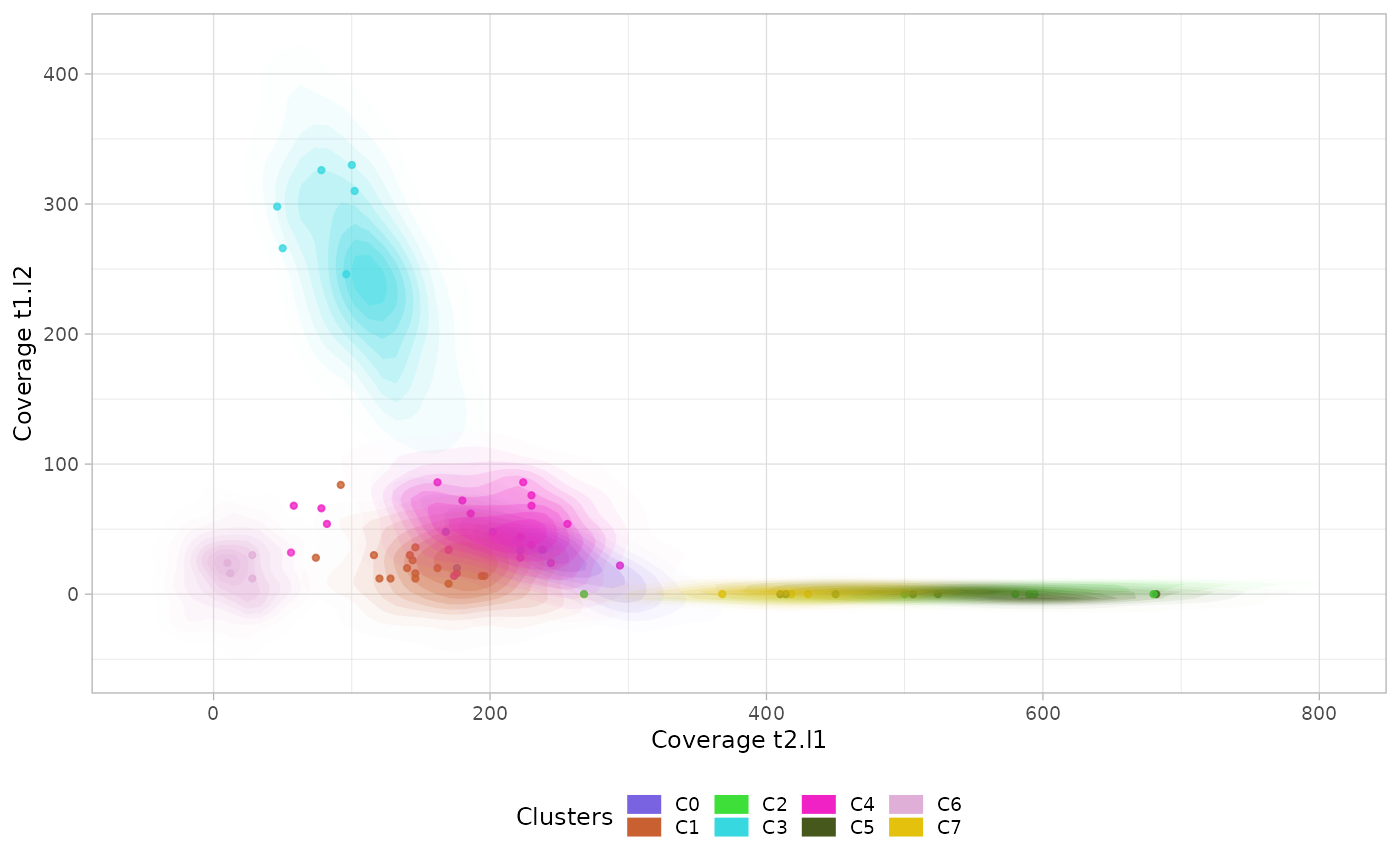
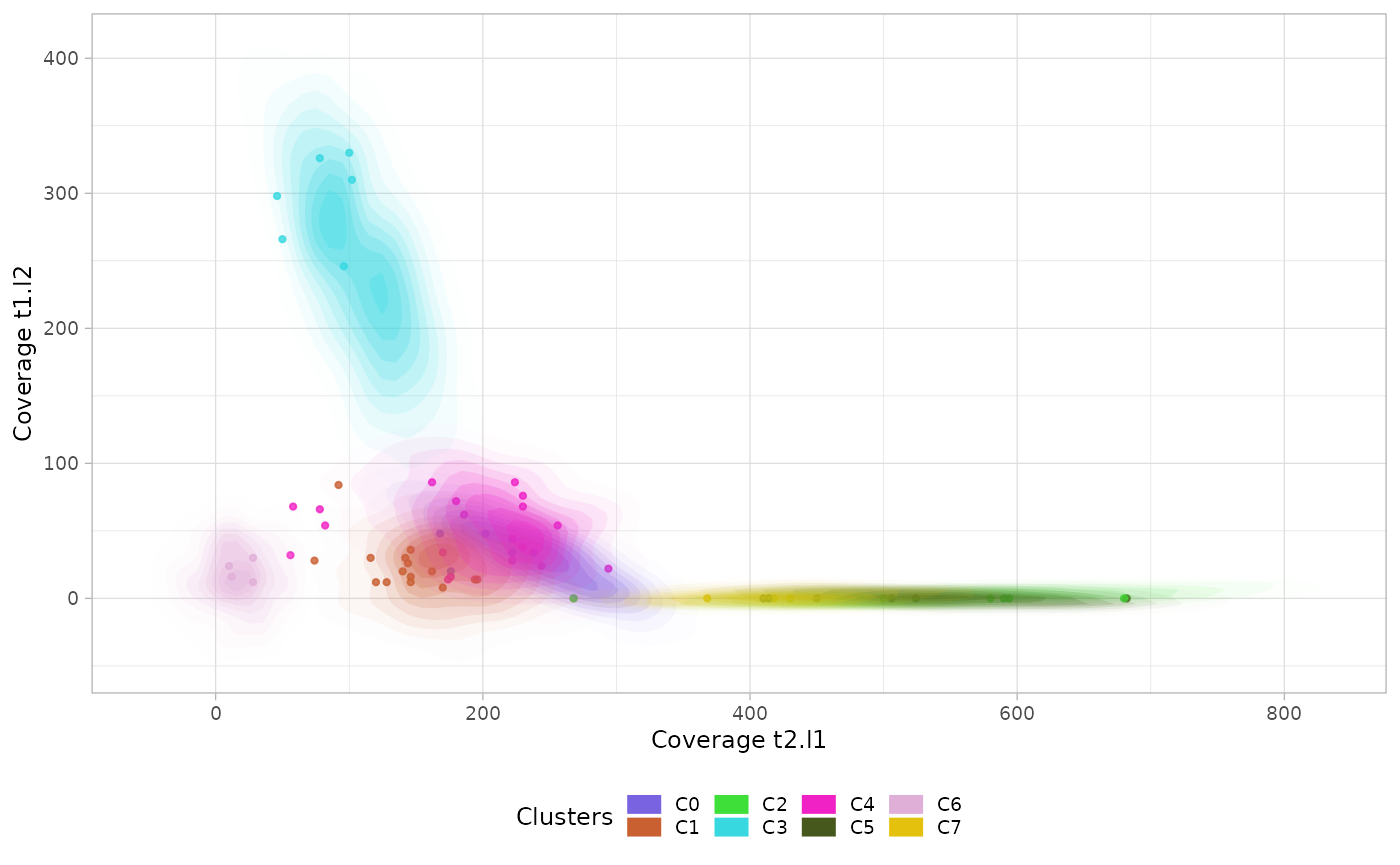
Built site for lineaGT: 0.1.0@46201f7

diff --git a/articles/Inference.html b/articles/Inference.html
@@ -111,6 +111,9 @@
 <div class="sourceCode" id="cb3"><pre class="downlit sourceCode r">
 <code class="sourceCode R"><span><span class="va">cov.example.filt</span> <span class="op">=</span> <span class="va">cov.df.example</span> <span class="op"><a href="https://magrittr.tidyverse.org/reference/pipe.html" class="external-link">%&gt;%</a></span></span>
 <span>  <span class="fu"><a href="../reference/filter_dataset.html">filter_dataset</a></span><span class="op">(</span>min_cov<span class="op">=</span><span class="fl">5</span>, min_frac<span class="op">=</span><span class="fl">0.05</span><span class="op">)</span></span>
+<span><span class="co">#&gt; <span style="color: #00BBBB;">ℹ</span> Filtering the input dataset with minimum coverage 5 and minimum clusters frac…</span></span>
+<span><span class="co">#&gt; <span style="color: #00BB00;">✔</span> Filtering the input dataset with minimum coverage 5 and minimum clusters frac…</span></span>
+<span><span class="co">#&gt; </span></span>
 <span></span>
 <span><span class="va">cov.example.filt</span></span>
 <span><span class="co">#&gt; <span style="color: #949494;"># A tibble: 264 × 4</span></span></span>
@@ -156,11 +159,11 @@
 <span id="cb4-24"><a href="#cb4-24" aria-hidden="true" tabindex="-1"></a><span class="co">#&gt;  [36mℹ [39m Starting clustering of clone C0 mutations</span></span>
 <span id="cb4-25"><a href="#cb4-25" aria-hidden="true" tabindex="-1"></a><span class="co">#&gt; ──  [30m [43m[ VIBER ] My VIBER model [49m [39m n = 3 (w = 4 dimensions). Fit with  [32mk = 3 [39m clusters. ─</span></span>
 <span id="cb4-26"><a href="#cb4-26" aria-hidden="true" tabindex="-1"></a><span class="co">#&gt;  [36mℹ [39m Starting clustering of clone C0 mutations</span></span>
-<span id="cb4-27"><a href="#cb4-27" aria-hidden="true" tabindex="-1"></a>• Clusters<span class="sc">:</span> π <span class="ot">=</span> <span class="dv">67</span><span class="sc">% [ [33mC2 [39m] and 33%</span> [ [33mC3 [39m], with π <span class="sc">&gt;</span> <span class="fl">0.</span></span>
+<span id="cb4-27"><a href="#cb4-27" aria-hidden="true" tabindex="-1"></a>• Clusters<span class="sc">:</span> π <span class="ot">=</span> <span class="dv">67</span><span class="sc">% [ [33mC1 [39m] and 33%</span> [ [33mC2 [39m], with π <span class="sc">&gt;</span> <span class="fl">0.</span></span>
 <span id="cb4-28"><a href="#cb4-28" aria-hidden="true" tabindex="-1"></a><span class="co">#&gt;  [36mℹ [39m Starting clustering of clone C0 mutations</span></span>
-<span id="cb4-29"><a href="#cb4-29" aria-hidden="true" tabindex="-1"></a>• Binomials<span class="sc">:</span> θ <span class="ot">=</span> <span class="er">&lt;</span><span class="fl">0.09</span>, <span class="fl">0.19</span>, <span class="fl">0.01</span>, <span class="dv">0</span><span class="sc">&gt;</span> [ [33mC2 [39m] and <span class="sc">&lt;</span><span class="fl">0.01</span>, <span class="fl">0.36</span>, <span class="fl">0.03</span>, <span class="fl">0.4</span><span class="sc">&gt;</span> [ [33mC3 [39m].</span>
+<span id="cb4-29"><a href="#cb4-29" aria-hidden="true" tabindex="-1"></a>• Binomials<span class="sc">:</span> θ <span class="ot">=</span> <span class="er">&lt;</span><span class="fl">0.09</span>, <span class="fl">0.19</span>, <span class="fl">0.01</span>, <span class="dv">0</span><span class="sc">&gt;</span> [ [33mC1 [39m] and <span class="sc">&lt;</span><span class="fl">0.01</span>, <span class="fl">0.36</span>, <span class="fl">0.03</span>, <span class="fl">0.4</span><span class="sc">&gt;</span> [ [33mC2 [39m].</span>
 <span id="cb4-30"><a href="#cb4-30" aria-hidden="true" tabindex="-1"></a><span class="co">#&gt;  [36mℹ [39m Starting clustering of clone C0 mutations</span></span>
-<span id="cb4-31"><a href="#cb4-31" aria-hidden="true" tabindex="-1"></a> [36mℹ [39m <span class="fu">Score</span>(s)<span class="sc">:</span> ELBO <span class="ot">=</span> <span class="sc">-</span><span class="dv">1461</span>.<span class="fl">823.</span> Fit  [32mconverged [39m <span class="cf">in</span> <span class="dv">6</span> steps, ε <span class="ot">=</span> 1e<span class="fl">-10.</span></span>
+<span id="cb4-31"><a href="#cb4-31" aria-hidden="true" tabindex="-1"></a> [36mℹ [39m <span class="fu">Score</span>(s)<span class="sc">:</span> ELBO <span class="ot">=</span> <span class="sc">-</span><span class="dv">1461</span>.<span class="fl">826.</span> Fit  [32mconverged [39m <span class="cf">in</span> <span class="dv">6</span> steps, ε <span class="ot">=</span> 1e<span class="fl">-10.</span></span>
 <span id="cb4-32"><a href="#cb4-32" aria-hidden="true" tabindex="-1"></a><span class="co">#&gt;  [36mℹ [39m Starting clustering of clone C0 mutations</span></span>
 <span id="cb4-33"><a href="#cb4-33" aria-hidden="true" tabindex="-1"></a> [32m✔ [39m Reduced to k <span class="ot">=</span> <span class="dv">2</span> (from <span class="dv">3</span>) selecting VIBER <span class="fu">cluster</span>(s) with π <span class="sc">&gt;</span> <span class="fl">0.166666666666667</span>, and Binomial p <span class="sc">&gt;</span> <span class="dv">0</span> <span class="cf">in</span> w <span class="sc">&gt;</span> <span class="dv">0</span> <span class="fu">dimension</span>(s).</span>
 <span id="cb4-34"><a href="#cb4-34" aria-hidden="true" tabindex="-1"></a><span class="co">#&gt;  [36mℹ [39m Starting clustering of clone C0 mutations</span></span>
@@ -173,8 +176,8 @@
 <span id="cb4-41"><a href="#cb4-41" aria-hidden="true" tabindex="-1"></a><span class="co">#&gt;  [38;5;246m# A tibble: 3 × 8 [39m</span></span>
 <span id="cb4-42"><a href="#cb4-42" aria-hidden="true" tabindex="-1"></a><span class="co">#&gt;   cluster   t1.l1 t2.l1  t1.l2 t2.l2 nMuts is.clonal is.driver</span></span>
 <span id="cb4-43"><a href="#cb4-43" aria-hidden="true" tabindex="-1"></a><span class="co">#&gt;    [3m [38;5;246m&lt;chr&gt; [39m [23m      [3m [38;5;246m&lt;dbl&gt; [39m [23m  [3m [38;5;246m&lt;dbl&gt; [39m [23m   [3m [38;5;246m&lt;dbl&gt; [39m [23m  [3m [38;5;246m&lt;dbl&gt; [39m [23m  [3m [38;5;246m&lt;dbl&gt; [39m [23m  [3m [38;5;246m&lt;lgl&gt; [39m [23m      [3m [38;5;246m&lt;lgl&gt; [39m [23m    </span></span>
-<span id="cb4-44"><a href="#cb4-44" aria-hidden="true" tabindex="-1"></a><span class="co">#&gt;  [38;5;250m1 [39m S1      0.085 [4m6 [24m  0.190 0      0         2 FALSE     FALSE    </span></span>
-<span id="cb4-45"><a href="#cb4-45" aria-hidden="true" tabindex="-1"></a><span class="co">#&gt;  [38;5;250m2 [39m S2      0.006 [4m8 [24m [4m2 [24m 0.362 0.028 [4m6 [24m 0.396     1 FALSE     TRUE     </span></span>
+<span id="cb4-44"><a href="#cb4-44" aria-hidden="true" tabindex="-1"></a><span class="co">#&gt;  [38;5;250m1 [39m S1      0.085 [4m6 [24m  0.190 0      0         2 FALSE     TRUE     </span></span>
+<span id="cb4-45"><a href="#cb4-45" aria-hidden="true" tabindex="-1"></a><span class="co">#&gt;  [38;5;250m2 [39m S2      0.006 [4m8 [24m [4m1 [24m 0.362 0.028 [4m6 [24m 0.396     1 FALSE     FALSE    </span></span>
 <span id="cb4-46"><a href="#cb4-46" aria-hidden="true" tabindex="-1"></a><span class="co">#&gt;  [38;5;250m3 [39m C0      1       1     1      1         1 TRUE      FALSE</span></span>
 <span id="cb4-47"><a href="#cb4-47" aria-hidden="true" tabindex="-1"></a><span class="co">#&gt;  [32m✔ [39m Trees per region  [32m [32m1, 2, 1, 1 [32m [39m</span></span>
 <span id="cb4-48"><a href="#cb4-48" aria-hidden="true" tabindex="-1"></a><span class="co">#&gt;  [36mℹ [39m Starting phylogeny inference of clone C0</span></span>
@@ -199,13 +202,13 @@
 <span id="cb4-67"><a href="#cb4-67" aria-hidden="true" tabindex="-1"></a><span class="co">#&gt;  [36mℹ [39m Starting clustering of clone C1 mutations</span></span>
 <span id="cb4-68"><a href="#cb4-68" aria-hidden="true" tabindex="-1"></a><span class="co">#&gt; ──  [30m [43m[ VIBER ] My VIBER model [49m [39m n = 8 (w = 4 dimensions). Fit with  [32mk = 8 [39m clusters. ─</span></span>
 <span id="cb4-69"><a href="#cb4-69" aria-hidden="true" tabindex="-1"></a><span class="co">#&gt;  [36mℹ [39m Starting clustering of clone C1 mutations</span></span>
-<span id="cb4-70"><a href="#cb4-70" aria-hidden="true" tabindex="-1"></a>• Clusters<span class="sc">:</span> π <span class="ot">=</span> <span class="dv">25</span><span class="sc">% [ [33mC2 [39m], 25%</span> [ [33mC5 [39m], <span class="dv">25</span><span class="sc">% [ [33mC6 [39m], 13%</span> [ [33mC4 [39m], and <span class="dv">13</span>% [ [33mC8 [39m], with π <span class="sc">&gt;</span></span>
+<span id="cb4-70"><a href="#cb4-70" aria-hidden="true" tabindex="-1"></a>• Clusters<span class="sc">:</span> π <span class="ot">=</span> <span class="dv">25</span><span class="sc">% [ [33mC1 [39m], 25%</span> [ [33mC2 [39m], <span class="dv">25</span><span class="sc">% [ [33mC6 [39m], 13%</span> [ [33mC3 [39m], and <span class="dv">13</span>% [ [33mC8 [39m], with π <span class="sc">&gt;</span></span>
 <span id="cb4-71"><a href="#cb4-71" aria-hidden="true" tabindex="-1"></a><span class="co">#&gt; 0.</span></span>
 <span id="cb4-72"><a href="#cb4-72" aria-hidden="true" tabindex="-1"></a><span class="co">#&gt;  [36mℹ [39m Starting clustering of clone C1 mutations</span></span>
-<span id="cb4-73"><a href="#cb4-73" aria-hidden="true" tabindex="-1"></a>• Binomials<span class="sc">:</span> θ <span class="ot">=</span> <span class="er">&lt;</span><span class="dv">0</span>, <span class="fl">0.08</span>, <span class="fl">0.01</span>, <span class="fl">0.15</span><span class="sc">&gt;</span> [ [33mC2 [39m], <span class="sc">&lt;</span><span class="fl">0.18</span>, <span class="dv">0</span>, <span class="fl">0.01</span>, <span class="dv">0</span><span class="sc">&gt;</span> [ [33mC5 [39m], <span class="sc">&lt;</span><span class="dv">0</span>, <span class="fl">0.14</span>,</span>
-<span id="cb4-74"><a href="#cb4-74" aria-hidden="true" tabindex="-1"></a><span class="co">#&gt; 0.01, 0&gt; [ [33mC6 [39m], &lt;0.43, 0.01, 0.02, 0.32&gt; [ [33mC4 [39m], and &lt;0.2, 0.01, 0.02, 0.23&gt; [ [33mC8 [39m].</span></span>
+<span id="cb4-73"><a href="#cb4-73" aria-hidden="true" tabindex="-1"></a>• Binomials<span class="sc">:</span> θ <span class="ot">=</span> <span class="er">&lt;</span><span class="dv">0</span>, <span class="fl">0.08</span>, <span class="fl">0.01</span>, <span class="fl">0.15</span><span class="sc">&gt;</span> [ [33mC1 [39m], <span class="sc">&lt;</span><span class="fl">0.18</span>, <span class="dv">0</span>, <span class="fl">0.01</span>, <span class="dv">0</span><span class="sc">&gt;</span> [ [33mC2 [39m], <span class="sc">&lt;</span><span class="dv">0</span>, <span class="fl">0.14</span>,</span>
+<span id="cb4-74"><a href="#cb4-74" aria-hidden="true" tabindex="-1"></a><span class="co">#&gt; 0.01, 0&gt; [ [33mC6 [39m], &lt;0.2, 0.01, 0.02, 0.23&gt; [ [33mC3 [39m], and &lt;0.43, 0.01, 0.02, 0.32&gt; [ [33mC8 [39m].</span></span>
 <span id="cb4-75"><a href="#cb4-75" aria-hidden="true" tabindex="-1"></a><span class="co">#&gt;  [36mℹ [39m Starting clustering of clone C1 mutations</span></span>
-<span id="cb4-76"><a href="#cb4-76" aria-hidden="true" tabindex="-1"></a> [36mℹ [39m <span class="fu">Score</span>(s)<span class="sc">:</span> ELBO <span class="ot">=</span> <span class="sc">-</span><span class="dv">4571</span>.<span class="fl">189.</span> Fit  [32mconverged [39m <span class="cf">in</span> <span class="dv">6</span> steps, ε <span class="ot">=</span> 1e<span class="fl">-10.</span></span>
+<span id="cb4-76"><a href="#cb4-76" aria-hidden="true" tabindex="-1"></a> [36mℹ [39m <span class="fu">Score</span>(s)<span class="sc">:</span> ELBO <span class="ot">=</span> <span class="sc">-</span><span class="dv">4571</span>.<span class="fl">264.</span> Fit  [32mconverged [39m <span class="cf">in</span> <span class="dv">9</span> steps, ε <span class="ot">=</span> 1e<span class="fl">-10.</span></span>
 <span id="cb4-77"><a href="#cb4-77" aria-hidden="true" tabindex="-1"></a><span class="co">#&gt;  [36mℹ [39m Starting clustering of clone C1 mutations</span></span>
 <span id="cb4-78"><a href="#cb4-78" aria-hidden="true" tabindex="-1"></a> [32m✔ [39m Reduced to k <span class="ot">=</span> <span class="dv">5</span> (from <span class="dv">8</span>) selecting VIBER <span class="fu">cluster</span>(s) with π <span class="sc">&gt;</span> <span class="fl">0.0625</span>, and Binomial p <span class="sc">&gt;</span> <span class="dv">0</span> <span class="cf">in</span> w <span class="sc">&gt;</span> <span class="dv">0</span> <span class="fu">dimension</span>(s).</span>
 <span id="cb4-79"><a href="#cb4-79" aria-hidden="true" tabindex="-1"></a><span class="co">#&gt;  [36mℹ [39m Starting clustering of clone C1 mutations</span></span>
@@ -218,11 +221,11 @@
 <span id="cb4-86"><a href="#cb4-86" aria-hidden="true" tabindex="-1"></a><span class="co">#&gt;  [38;5;246m# A tibble: 6 × 8 [39m</span></span>
 <span id="cb4-87"><a href="#cb4-87" aria-hidden="true" tabindex="-1"></a><span class="co">#&gt;   cluster   t1.l1   t2.l1  t1.l2 t2.l2 nMuts is.clonal is.driver</span></span>
 <span id="cb4-88"><a href="#cb4-88" aria-hidden="true" tabindex="-1"></a><span class="co">#&gt;    [3m [38;5;246m&lt;chr&gt; [39m [23m      [3m [38;5;246m&lt;dbl&gt; [39m [23m    [3m [38;5;246m&lt;dbl&gt; [39m [23m   [3m [38;5;246m&lt;dbl&gt; [39m [23m  [3m [38;5;246m&lt;dbl&gt; [39m [23m  [3m [38;5;246m&lt;dbl&gt; [39m [23m  [3m [38;5;246m&lt;lgl&gt; [39m [23m      [3m [38;5;246m&lt;lgl&gt; [39m [23m    </span></span>
-<span id="cb4-89"><a href="#cb4-89" aria-hidden="true" tabindex="-1"></a><span class="co">#&gt;  [38;5;250m1 [39m S1      0.001 [4m6 [24m [4m2 [24m 0.075 [4m6 [24m  0.012 [4m2 [24m 0.147     2 FALSE     FALSE    </span></span>
-<span id="cb4-90"><a href="#cb4-90" aria-hidden="true" tabindex="-1"></a><span class="co">#&gt;  [38;5;250m2 [39m S2      0.430   0.005 [4m5 [24m [4m8 [24m 0.017 [4m0 [24m 0.318     1 FALSE     FALSE    </span></span>
-<span id="cb4-91"><a href="#cb4-91" aria-hidden="true" tabindex="-1"></a><span class="co">#&gt;  [38;5;250m3 [39m S3      0.184   0.002 [4m8 [24m [4m1 [24m 0      0         2 FALSE     FALSE    </span></span>
+<span id="cb4-89"><a href="#cb4-89" aria-hidden="true" tabindex="-1"></a><span class="co">#&gt;  [38;5;250m1 [39m S1      0.001 [4m6 [24m [4m2 [24m 0.075 [4m6 [24m  0.012 [4m3 [24m 0.147     2 FALSE     FALSE    </span></span>
+<span id="cb4-90"><a href="#cb4-90" aria-hidden="true" tabindex="-1"></a><span class="co">#&gt;  [38;5;250m2 [39m S2      0.184   0.002 [4m8 [24m [4m0 [24m 0      0         2 FALSE     FALSE    </span></span>
+<span id="cb4-91"><a href="#cb4-91" aria-hidden="true" tabindex="-1"></a><span class="co">#&gt;  [38;5;250m3 [39m S3      0.198   0.005 [4m6 [24m [4m0 [24m 0.017 [4m0 [24m 0.225     1 FALSE     TRUE     </span></span>
 <span id="cb4-92"><a href="#cb4-92" aria-hidden="true" tabindex="-1"></a><span class="co">#&gt;  [38;5;250m4 [39m S4      0.001 [4m6 [24m [4m2 [24m 0.142   0      0         2 FALSE     FALSE    </span></span>
-<span id="cb4-93"><a href="#cb4-93" aria-hidden="true" tabindex="-1"></a><span class="co">#&gt;  [38;5;250m5 [39m S5      0.198   0.005 [4m5 [24m [4m9 [24m 0.017 [4m0 [24m 0.225     1 FALSE     TRUE     </span></span>
+<span id="cb4-93"><a href="#cb4-93" aria-hidden="true" tabindex="-1"></a><span class="co">#&gt;  [38;5;250m5 [39m S5      0.430   0.005 [4m5 [24m [4m8 [24m 0.017 [4m1 [24m 0.318     1 FALSE     FALSE    </span></span>
 <span id="cb4-94"><a href="#cb4-94" aria-hidden="true" tabindex="-1"></a><span class="co">#&gt;  [38;5;250m6 [39m C1      1       1       1      1         1 TRUE      FALSE</span></span>
 <span id="cb4-95"><a href="#cb4-95" aria-hidden="true" tabindex="-1"></a><span class="co">#&gt;  [32m✔ [39m Trees per region  [32m [32m6, 2, 5, 5 [32m [39m</span></span>
 <span id="cb4-96"><a href="#cb4-96" aria-hidden="true" tabindex="-1"></a><span class="co">#&gt;  [36mℹ [39m Starting phylogeny inference of clone C1</span></span>
@@ -243,16 +246,16 @@
 <span id="cb4-111"><a href="#cb4-111" aria-hidden="true" tabindex="-1"></a><span class="co">#&gt;  [36mℹ [39m Starting clustering of clone C4 mutations</span></span>
 <span id="cb4-112"><a href="#cb4-112" aria-hidden="true" tabindex="-1"></a> [36mℹ [39m <span class="fu">Beta</span> (a_0, b_0) <span class="ot">=</span> (<span class="dv">1</span>, <span class="dv">1</span>); q_i <span class="ot">=</span> prior. Optimise<span class="sc">:</span> ε <span class="ot">=</span> <span class="fl">1e-10</span> or <span class="dv">5000</span> steps, r <span class="ot">=</span> <span class="dv">10</span> starts.</span>
 <span id="cb4-113"><a href="#cb4-113" aria-hidden="true" tabindex="-1"></a><span class="co">#&gt;  [36mℹ [39m Starting clustering of clone C4 mutations</span></span>
-<span id="cb4-114"><a href="#cb4-114" aria-hidden="true" tabindex="-1"></a><span class="co">#&gt;  [32m✔ [39m  [1mVIBER fit [22m completed in 0.05 mins (status:  [32mconverged [39m)</span></span>
+<span id="cb4-114"><a href="#cb4-114" aria-hidden="true" tabindex="-1"></a><span class="co">#&gt;  [32m✔ [39m  [1mVIBER fit [22m completed in 0.06 mins (status:  [32mconverged [39m)</span></span>
 <span id="cb4-115"><a href="#cb4-115" aria-hidden="true" tabindex="-1"></a><span class="co">#&gt;  [36mℹ [39m Starting clustering of clone C4 mutations</span></span>
 <span id="cb4-116"><a href="#cb4-116" aria-hidden="true" tabindex="-1"></a><span class="co">#&gt; ──  [30m [43m[ VIBER ] My VIBER model [49m [39m n = 6 (w = 4 dimensions). Fit with  [32mk = 6 [39m clusters. ─</span></span>
 <span id="cb4-117"><a href="#cb4-117" aria-hidden="true" tabindex="-1"></a><span class="co">#&gt;  [36mℹ [39m Starting clustering of clone C4 mutations</span></span>
-<span id="cb4-118"><a href="#cb4-118" aria-hidden="true" tabindex="-1"></a>• Clusters<span class="sc">:</span> π <span class="ot">=</span> <span class="dv">50</span><span class="sc">% [ [33mC6 [39m], 17%</span> [ [33mC1 [39m], <span class="dv">17</span><span class="sc">% [ [33mC3 [39m], and 17%</span> [ [33mC4 [39m], with π <span class="sc">&gt;</span> <span class="fl">0.</span></span>
+<span id="cb4-118"><a href="#cb4-118" aria-hidden="true" tabindex="-1"></a>• Clusters<span class="sc">:</span> π <span class="ot">=</span> <span class="dv">50</span><span class="sc">% [ [33mC5 [39m], 17%</span> [ [33mC1 [39m], <span class="dv">17</span><span class="sc">% [ [33mC3 [39m], and 17%</span> [ [33mC6 [39m], with π <span class="sc">&gt;</span> <span class="fl">0.</span></span>
 <span id="cb4-119"><a href="#cb4-119" aria-hidden="true" tabindex="-1"></a><span class="co">#&gt;  [36mℹ [39m Starting clustering of clone C4 mutations</span></span>
-<span id="cb4-120"><a href="#cb4-120" aria-hidden="true" tabindex="-1"></a>• Binomials<span class="sc">:</span> θ <span class="ot">=</span> <span class="er">&lt;</span><span class="fl">0.15</span>, <span class="dv">0</span>, <span class="fl">0.01</span>, <span class="dv">0</span><span class="sc">&gt;</span> [ [33mC6 [39m], <span class="sc">&lt;</span><span class="fl">0.19</span>, <span class="fl">0.22</span>, <span class="fl">0.3</span>, <span class="fl">0.2</span><span class="sc">&gt;</span> [ [33mC1 [39m], <span class="sc">&lt;</span><span class="dv">0</span>, <span class="dv">0</span>,</span>
-<span id="cb4-121"><a href="#cb4-121" aria-hidden="true" tabindex="-1"></a><span class="co">#&gt; 0.02, 0.29&gt; [ [33mC3 [39m], and &lt;0.36, 0, 0.02, 0.28&gt; [ [33mC4 [39m].</span></span>
+<span id="cb4-120"><a href="#cb4-120" aria-hidden="true" tabindex="-1"></a>• Binomials<span class="sc">:</span> θ <span class="ot">=</span> <span class="er">&lt;</span><span class="fl">0.15</span>, <span class="dv">0</span>, <span class="fl">0.01</span>, <span class="dv">0</span><span class="sc">&gt;</span> [ [33mC5 [39m], <span class="sc">&lt;</span><span class="dv">0</span>, <span class="dv">0</span>, <span class="fl">0.02</span>, <span class="fl">0.29</span><span class="sc">&gt;</span> [ [33mC1 [39m], <span class="sc">&lt;</span><span class="fl">0.36</span>, <span class="dv">0</span>,</span>
+<span id="cb4-121"><a href="#cb4-121" aria-hidden="true" tabindex="-1"></a><span class="co">#&gt; 0.02, 0.28&gt; [ [33mC3 [39m], and &lt;0.19, 0.22, 0.3, 0.2&gt; [ [33mC6 [39m].</span></span>
 <span id="cb4-122"><a href="#cb4-122" aria-hidden="true" tabindex="-1"></a><span class="co">#&gt;  [36mℹ [39m Starting clustering of clone C4 mutations</span></span>
-<span id="cb4-123"><a href="#cb4-123" aria-hidden="true" tabindex="-1"></a> [36mℹ [39m <span class="fu">Score</span>(s)<span class="sc">:</span> ELBO <span class="ot">=</span> <span class="sc">-</span><span class="dv">3594</span>.<span class="fl">629.</span> Fit  [32mconverged [39m <span class="cf">in</span> <span class="dv">6</span> steps, ε <span class="ot">=</span> 1e<span class="fl">-10.</span></span>
+<span id="cb4-123"><a href="#cb4-123" aria-hidden="true" tabindex="-1"></a> [36mℹ [39m <span class="fu">Score</span>(s)<span class="sc">:</span> ELBO <span class="ot">=</span> <span class="sc">-</span><span class="dv">3594</span>.<span class="fl">607.</span> Fit  [32mconverged [39m <span class="cf">in</span> <span class="dv">7</span> steps, ε <span class="ot">=</span> 1e<span class="fl">-10.</span></span>
 <span id="cb4-124"><a href="#cb4-124" aria-hidden="true" tabindex="-1"></a><span class="co">#&gt;  [36mℹ [39m Starting clustering of clone C4 mutations</span></span>
 <span id="cb4-125"><a href="#cb4-125" aria-hidden="true" tabindex="-1"></a> [32m✔ [39m Reduced to k <span class="ot">=</span> <span class="dv">4</span> (from <span class="dv">6</span>) selecting VIBER <span class="fu">cluster</span>(s) with π <span class="sc">&gt;</span> <span class="fl">0.0833333333333333</span>, and Binomial p <span class="sc">&gt;</span> <span class="dv">0</span> <span class="cf">in</span> w <span class="sc">&gt;</span> <span class="dv">0</span> <span class="fu">dimension</span>(s).</span>
 <span id="cb4-126"><a href="#cb4-126" aria-hidden="true" tabindex="-1"></a><span class="co">#&gt;  [36mℹ [39m Starting clustering of clone C4 mutations</span></span>
@@ -265,10 +268,10 @@
 <span id="cb4-133"><a href="#cb4-133" aria-hidden="true" tabindex="-1"></a><span class="co">#&gt;  [38;5;246m# A tibble: 5 × 8 [39m</span></span>
 <span id="cb4-134"><a href="#cb4-134" aria-hidden="true" tabindex="-1"></a><span class="co">#&gt;   cluster t1.l1   t2.l1  t1.l2 t2.l2 nMuts is.clonal is.driver</span></span>
 <span id="cb4-135"><a href="#cb4-135" aria-hidden="true" tabindex="-1"></a><span class="co">#&gt;    [3m [38;5;246m&lt;chr&gt; [39m [23m    [3m [38;5;246m&lt;dbl&gt; [39m [23m    [3m [38;5;246m&lt;dbl&gt; [39m [23m   [3m [38;5;246m&lt;dbl&gt; [39m [23m  [3m [38;5;246m&lt;dbl&gt; [39m [23m  [3m [38;5;246m&lt;dbl&gt; [39m [23m  [3m [38;5;246m&lt;lgl&gt; [39m [23m      [3m [38;5;246m&lt;lgl&gt; [39m [23m    </span></span>
-<span id="cb4-136"><a href="#cb4-136" aria-hidden="true" tabindex="-1"></a><span class="co">#&gt;  [38;5;250m1 [39m S1      0.192 0.222   0.296  0.198     1 FALSE     TRUE     </span></span>
-<span id="cb4-137"><a href="#cb4-137" aria-hidden="true" tabindex="-1"></a><span class="co">#&gt;  [38;5;250m2 [39m S2      0     0       0.018 [4m6 [24m 0.292     1 FALSE     FALSE    </span></span>
-<span id="cb4-138"><a href="#cb4-138" aria-hidden="true" tabindex="-1"></a><span class="co">#&gt;  [38;5;250m3 [39m S3      0.358 0.004 [4m7 [24m [4m3 [24m 0.017 [4m0 [24m 0.275     1 FALSE     FALSE    </span></span>
-<span id="cb4-139"><a href="#cb4-139" aria-hidden="true" tabindex="-1"></a><span class="co">#&gt;  [38;5;250m4 [39m S4      0.146 0.001 [4m5 [24m [4m8 [24m 0      0         3 FALSE     FALSE    </span></span>
+<span id="cb4-136"><a href="#cb4-136" aria-hidden="true" tabindex="-1"></a><span class="co">#&gt;  [38;5;250m1 [39m S1      0     0       0.018 [4m6 [24m 0.292     1 FALSE     FALSE    </span></span>
+<span id="cb4-137"><a href="#cb4-137" aria-hidden="true" tabindex="-1"></a><span class="co">#&gt;  [38;5;250m2 [39m S2      0.358 0.004 [4m7 [24m [4m2 [24m 0.017 [4m0 [24m 0.275     1 FALSE     FALSE    </span></span>
+<span id="cb4-138"><a href="#cb4-138" aria-hidden="true" tabindex="-1"></a><span class="co">#&gt;  [38;5;250m3 [39m S3      0.146 0.001 [4m5 [24m [4m8 [24m 0      0         3 FALSE     TRUE     </span></span>
+<span id="cb4-139"><a href="#cb4-139" aria-hidden="true" tabindex="-1"></a><span class="co">#&gt;  [38;5;250m4 [39m S4      0.192 0.222   0.296  0.198     1 FALSE     FALSE    </span></span>
 <span id="cb4-140"><a href="#cb4-140" aria-hidden="true" tabindex="-1"></a><span class="co">#&gt;  [38;5;250m5 [39m C4      1     1       1      1         1 TRUE      FALSE</span></span>
 <span id="cb4-141"><a href="#cb4-141" aria-hidden="true" tabindex="-1"></a><span class="co">#&gt;  [32m✔ [39m Trees per region  [32m [32m6, 1, 6, 5 [32m [39m</span></span>
 <span id="cb4-142"><a href="#cb4-142" aria-hidden="true" tabindex="-1"></a><span class="co">#&gt;  [36mℹ [39m Starting phylogeny inference of clone C4</span></span>
@@ -297,7 +300,7 @@
 <span id="cb4-165"><a href="#cb4-165" aria-hidden="true" tabindex="-1"></a><span class="co">#&gt;  [36mℹ [39m Starting clustering of clone C7 mutations</span></span>
 <span id="cb4-166"><a href="#cb4-166" aria-hidden="true" tabindex="-1"></a>• Binomials<span class="sc">:</span> θ <span class="ot">=</span> <span class="er">&lt;</span><span class="fl">0.01</span>, <span class="fl">0.11</span>, <span class="dv">0</span>, <span class="dv">0</span><span class="sc">&gt;</span> [ [33mC1 [39m] and <span class="sc">&lt;</span><span class="fl">0.4</span>, <span class="dv">0</span>, <span class="fl">0.31</span>, <span class="fl">0.35</span><span class="sc">&gt;</span> [ [33mC2 [39m].</span>
 <span id="cb4-167"><a href="#cb4-167" aria-hidden="true" tabindex="-1"></a><span class="co">#&gt;  [36mℹ [39m Starting clustering of clone C7 mutations</span></span>
-<span id="cb4-168"><a href="#cb4-168" aria-hidden="true" tabindex="-1"></a> [36mℹ [39m <span class="fu">Score</span>(s)<span class="sc">:</span> ELBO <span class="ot">=</span> <span class="sc">-</span><span class="dv">1584</span>.<span class="fl">512.</span> Fit  [32mconverged [39m <span class="cf">in</span> <span class="dv">5</span> steps, ε <span class="ot">=</span> 1e<span class="fl">-10.</span></span>
+<span id="cb4-168"><a href="#cb4-168" aria-hidden="true" tabindex="-1"></a> [36mℹ [39m <span class="fu">Score</span>(s)<span class="sc">:</span> ELBO <span class="ot">=</span> <span class="sc">-</span><span class="dv">1584</span>.<span class="fl">496.</span> Fit  [32mconverged [39m <span class="cf">in</span> <span class="dv">5</span> steps, ε <span class="ot">=</span> 1e<span class="fl">-10.</span></span>
 <span id="cb4-169"><a href="#cb4-169" aria-hidden="true" tabindex="-1"></a><span class="co">#&gt;  [36mℹ [39m Starting clustering of clone C7 mutations</span></span>
 <span id="cb4-170"><a href="#cb4-170" aria-hidden="true" tabindex="-1"></a> [32m✔ [39m Starting clustering of clone C7 mutations ... done</span>
 <span id="cb4-171"><a href="#cb4-171" aria-hidden="true" tabindex="-1"></a><span class="co">#&gt; </span></span>
